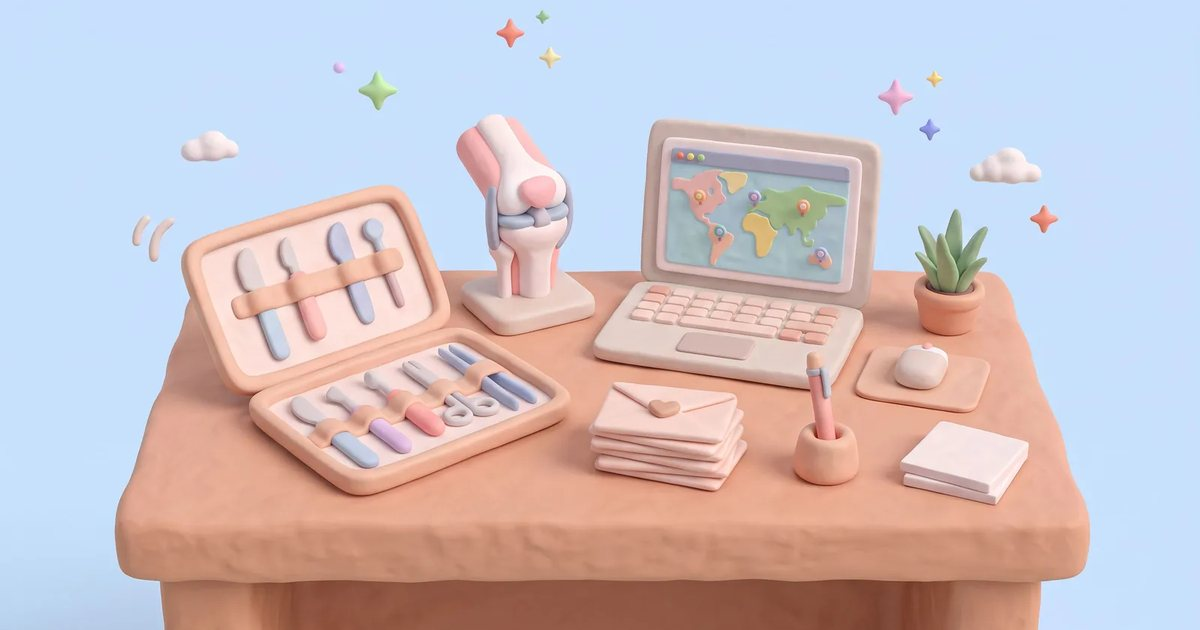
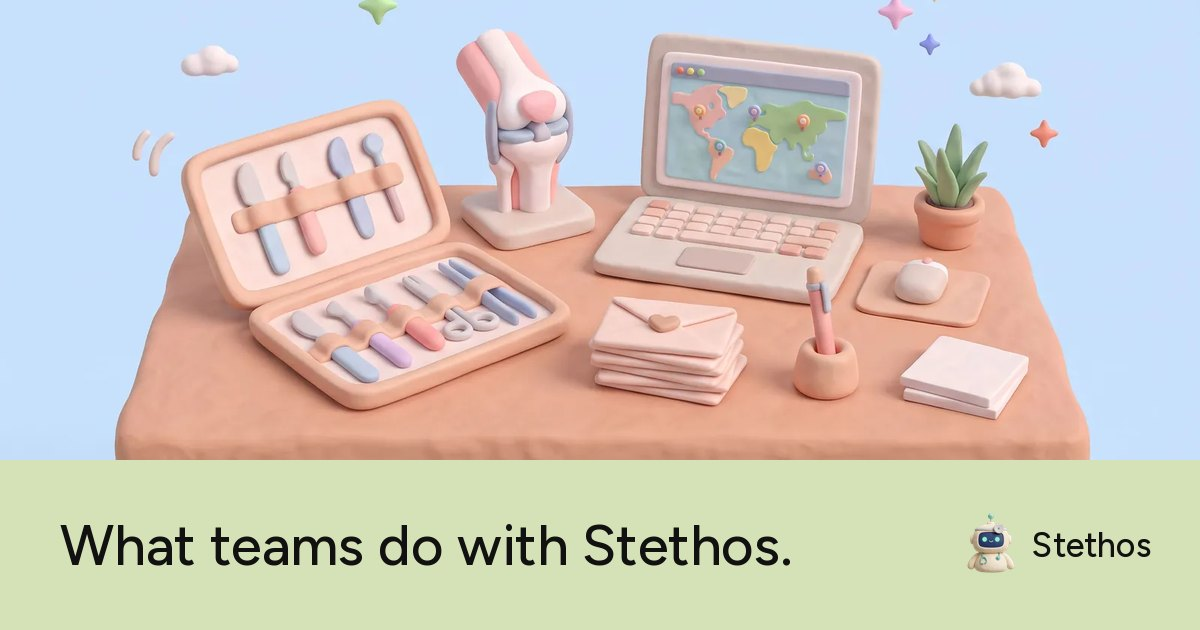
Remove source ribbon under hero; branded share cards for every page
Every page's link preview now carries the robot logo and Stethos name in the
same layout as the homepage card.

Claude-Session: https://claude.ai/code/session_01GTuT34fDN3RaY4La69227H

diff --git a/public/use-cases.html b/public/use-cases.html
@@ -14,17 +14,17 @@
 <meta property="og:title" content="Use Cases: Healthcare Sales, Marketing and Deal Workflows">
 <meta property="og:description" content="Agent workflows by segment: medtech, pharma, health IT, investors, startups, staffing, post-acute and health systems. Targeting, referrals, ABM and more.">
 <meta property="og:url" content="https://stethos-one.vercel.app/use-cases">
-<meta property="og:image" content="https://stethos-one.vercel.app/og/use-cases.jpg">
-<meta property="og:image:secure_url" content="https://stethos-one.vercel.app/og/use-cases.jpg">
+<meta property="og:image" content="https://stethos-one.vercel.app/og/use-cases.jpg?v=4">
+<meta property="og:image:secure_url" content="https://stethos-one.vercel.app/og/use-cases.jpg?v=4">
 <meta property="og:image:type" content="image/jpeg">
 <meta property="og:image:width" content="1200">
 <meta property="og:image:height" content="630">
-<meta property="og:image:alt" content="Clay illustration of a data machine under a glass dome, taking in records from hospitals and clinics and sending updates to small robots at laptops, next to the line: Healthcare data for your AI agents.">
+<meta property="og:image:alt" content="Clay illustration of a sales desk with a laptop map, above the line: What teams do with Stethos.">
 <meta name="twitter:card" content="summary_large_image">
 <meta name="twitter:title" content="Use Cases: Healthcare Sales, Marketing and Deal Workflows">
 <meta name="twitter:description" content="Agent workflows by segment: medtech, pharma, health IT, investors, startups, staffing, post-acute and health systems. Targeting, referrals, ABM and more.">
-<meta name="twitter:image" content="https://stethos-one.vercel.app/og/use-cases.jpg">
-<meta name="twitter:image:alt" content="Clay illustration of a data machine under a glass dome, taking in records from hospitals and clinics and sending updates to small robots at laptops, next to the line: Healthcare data for your AI agents.">
+<meta name="twitter:image" content="https://stethos-one.vercel.app/og/use-cases.jpg?v=4">
+<meta name="twitter:image:alt" content="Clay illustration of a sales desk with a laptop map, above the line: What teams do with Stethos.">
 <link rel="icon" href="/favicon-32.png?v=cf8c8908" sizes="32x32" type="image/png">
 <link rel="apple-touch-icon" href="/apple-touch-icon.png?v=d0d2cf04">
 <link rel="preload" href="/fonts/figtree-latin-wght-normal.woff2" as="font" type="font/woff2" crossorigin>

diff --git a/public/blog/what-the-npi-registry-can-and-cant-tell-you.html b/public/blog/what-the-npi-registry-can-and-cant-tell-you.html
@@ -14,8 +14,8 @@
 <meta property="og:title" content="What the NPI Registry Can and Can't Tell You | Stethos">
 <meta property="og:description" content="The NPPES NPI Registry is the backbone of US provider data. Here's what it reliably tells you, where it falls short, and what to pair it with.">
 <meta property="og:url" content="https://stethos-one.vercel.app/blog/what-the-npi-registry-can-and-cant-tell-you">
-<meta property="og:image" content="https://stethos-one.vercel.app/og/what-the-npi-registry-can-and-cant-tell-you.jpg">
-<meta property="og:image:secure_url" content="https://stethos-one.vercel.app/og/what-the-npi-registry-can-and-cant-tell-you.jpg">
+<meta property="og:image" content="https://stethos-one.vercel.app/og/what-the-npi-registry-can-and-cant-tell-you.jpg?v=4">
+<meta property="og:image:secure_url" content="https://stethos-one.vercel.app/og/what-the-npi-registry-can-and-cant-tell-you.jpg?v=4">
 <meta property="og:image:type" content="image/jpeg">
 <meta property="og:image:width" content="1200">
 <meta property="og:image:height" content="630">
@@ -23,7 +23,7 @@
 <meta name="twitter:card" content="summary_large_image">
 <meta name="twitter:title" content="What the NPI Registry Can and Can't Tell You | Stethos">
 <meta name="twitter:description" content="The NPPES NPI Registry is the backbone of US provider data. Here's what it reliably tells you, where it falls short, and what to pair it with.">
-<meta name="twitter:image" content="https://stethos-one.vercel.app/og/what-the-npi-registry-can-and-cant-tell-you.jpg">
+<meta name="twitter:image" content="https://stethos-one.vercel.app/og/what-the-npi-registry-can-and-cant-tell-you.jpg?v=4">
 <meta name="twitter:image:alt" content="Illustration: a clay clipboard directory of doctors' offices with check marks, beside an insurance shield and a magnifying glass.">
 <link rel="icon" href="/favicon-32.png?v=cf8c8908" sizes="32x32" type="image/png">
 <link rel="apple-touch-icon" href="/apple-touch-icon.png?v=d0d2cf04">

diff --git a/public/blog/giving-an-ai-agent-healthcare-data-checklist.html b/public/blog/giving-an-ai-agent-healthcare-data-checklist.html
@@ -14,8 +14,8 @@
 <meta property="og:title" content="Giving an AI Agent Healthcare Data: A Checklist | Stethos">
 <meta property="og:description" content="Before an AI agent acts on healthcare provider data, check freshness, provenance, identifiers, cost controls and patient privacy. A short checklist.">
 <meta property="og:url" content="https://stethos-one.vercel.app/blog/giving-an-ai-agent-healthcare-data-checklist">
-<meta property="og:image" content="https://stethos-one.vercel.app/og/giving-an-ai-agent-healthcare-data-checklist.jpg">
-<meta property="og:image:secure_url" content="https://stethos-one.vercel.app/og/giving-an-ai-agent-healthcare-data-checklist.jpg">
+<meta property="og:image" content="https://stethos-one.vercel.app/og/giving-an-ai-agent-healthcare-data-checklist.jpg?v=4">
+<meta property="og:image:secure_url" content="https://stethos-one.vercel.app/og/giving-an-ai-agent-healthcare-data-checklist.jpg?v=4">
 <meta property="og:image:type" content="image/jpeg">
 <meta property="og:image:width" content="1200">
 <meta property="og:image:height" content="630">
@@ -23,7 +23,7 @@
 <meta name="twitter:card" content="summary_large_image">
 <meta name="twitter:title" content="Giving an AI Agent Healthcare Data: A Checklist | Stethos">
 <meta name="twitter:description" content="Before an AI agent acts on healthcare provider data, check freshness, provenance, identifiers, cost controls and patient privacy. A short checklist.">
-<meta name="twitter:image" content="https://stethos-one.vercel.app/og/giving-an-ai-agent-healthcare-data-checklist.jpg">
+<meta name="twitter:image" content="https://stethos-one.vercel.app/og/giving-an-ai-agent-healthcare-data-checklist.jpg?v=4">
 <meta name="twitter:image:alt" content="Illustration: a clay smartphone showing a map of doctor pins, with a small clay robot leaning on it.">
 <link rel="icon" href="/favicon-32.png?v=cf8c8908" sizes="32x32" type="image/png">
 <link rel="apple-touch-icon" href="/apple-touch-icon.png?v=d0d2cf04">

diff --git a/public/blog/why-provider-directories-go-stale.html b/public/blog/why-provider-directories-go-stale.html
@@ -14,8 +14,8 @@
 <meta property="og:title" content="Why Provider Directories Go Stale | Stethos">
 <meta property="og:description" content="Provider directories drift out of date because clinicians move faster than the systems that track them. Here's where the errors come from and what helps.">
 <meta property="og:url" content="https://stethos-one.vercel.app/blog/why-provider-directories-go-stale">
-<meta property="og:image" content="https://stethos-one.vercel.app/og/why-provider-directories-go-stale.jpg">
-<meta property="og:image:secure_url" content="https://stethos-one.vercel.app/og/why-provider-directories-go-stale.jpg">
+<meta property="og:image" content="https://stethos-one.vercel.app/og/why-provider-directories-go-stale.jpg?v=4">
+<meta property="og:image:secure_url" content="https://stethos-one.vercel.app/og/why-provider-directories-go-stale.jpg?v=4">
 <meta property="og:image:type" content="image/jpeg">
 <meta property="og:image:width" content="1200">
 <meta property="og:image:height" content="630">
@@ -23,7 +23,7 @@
 <meta name="twitter:card" content="summary_large_image">
 <meta name="twitter:title" content="Why Provider Directories Go Stale | Stethos">
 <meta name="twitter:description" content="Provider directories drift out of date because clinicians move faster than the systems that track them. Here's where the errors come from and what helps.">
-<meta name="twitter:image" content="https://stethos-one.vercel.app/og/why-provider-directories-go-stale.jpg">
+<meta name="twitter:image" content="https://stethos-one.vercel.app/og/why-provider-directories-go-stale.jpg?v=4">
 <meta name="twitter:image:alt" content="Illustration: a dusty clay filing cabinet, faded binders, a curling spreadsheet, returned envelopes and a map whose pins have fallen over.">
 <link rel="icon" href="/favicon-32.png?v=cf8c8908" sizes="32x32" type="image/png">
 <link rel="apple-touch-icon" href="/apple-touch-icon.png?v=d0d2cf04">

diff --git a/public/compare/definitive-healthcare.html b/public/compare/definitive-healthcare.html
@@ -14,8 +14,8 @@
 <meta property="og:title" content="Stethos vs Definitive Healthcare | Provider Data Compared">
 <meta property="og:description" content="How Stethos compares with Definitive Healthcare for healthcare provider data: API access, pricing model, data freshness and who each is built for.">
 <meta property="og:url" content="https://stethos-one.vercel.app/compare/definitive-healthcare">
-<meta property="og:image" content="https://stethos-one.vercel.app/og/compare.jpg">
-<meta property="og:image:secure_url" content="https://stethos-one.vercel.app/og/compare.jpg">
+<meta property="og:image" content="https://stethos-one.vercel.app/og/compare.jpg?v=4">
+<meta property="og:image:secure_url" content="https://stethos-one.vercel.app/og/compare.jpg?v=4">
 <meta property="og:image:type" content="image/jpeg">
 <meta property="og:image:width" content="1200">
 <meta property="og:image:height" content="630">
@@ -23,7 +23,7 @@
 <meta name="twitter:card" content="summary_large_image">
 <meta name="twitter:title" content="Stethos vs Definitive Healthcare | Provider Data Compared">
 <meta name="twitter:description" content="How Stethos compares with Definitive Healthcare for healthcare provider data: API access, pricing model, data freshness and who each is built for.">
-<meta name="twitter:image" content="https://stethos-one.vercel.app/og/compare.jpg">
+<meta name="twitter:image" content="https://stethos-one.vercel.app/og/compare.jpg?v=4">
 <meta name="twitter:image:alt" content="Clay illustration of a data machine under a glass dome, taking in records from hospitals and clinics and sending updates to small robots at laptops, next to the line: Healthcare data for your AI agents.">
 <link rel="icon" href="/favicon-32.png?v=cf8c8908" sizes="32x32" type="image/png">
 <link rel="apple-touch-icon" href="/apple-touch-icon.png?v=d0d2cf04">

diff --git a/public/medicare-utilization-data-api.html b/public/medicare-utilization-data-api.html
@@ -14,8 +14,8 @@
 <meta property="og:title" content="Medicare Provider Utilization Data API | Stethos">
 <meta property="og:description" content="Procedure volumes, Medicare patients and Part D prescribing for every US clinician, from CMS public files, resolved to one NPI record. MCP and REST.">
 <meta property="og:url" content="https://stethos-one.vercel.app/medicare-utilization-data-api">
-<meta property="og:image" content="https://stethos-one.vercel.app/og/medicare-utilization-data-api.jpg">
-<meta property="og:image:secure_url" content="https://stethos-one.vercel.app/og/medicare-utilization-data-api.jpg">
+<meta property="og:image" content="https://stethos-one.vercel.app/og/medicare-utilization-data-api.jpg?v=4">
+<meta property="og:image:secure_url" content="https://stethos-one.vercel.app/og/medicare-utilization-data-api.jpg?v=4">
 <meta property="og:image:type" content="image/jpeg">
 <meta property="og:image:width" content="1200">
 <meta property="og:image:height" content="630">
@@ -23,7 +23,7 @@
 <meta name="twitter:card" content="summary_large_image">
 <meta name="twitter:title" content="Medicare Provider Utilization Data API | Stethos">
 <meta name="twitter:description" content="Procedure volumes, Medicare patients and Part D prescribing for every US clinician, from CMS public files, resolved to one NPI record. MCP and REST.">
-<meta name="twitter:image" content="https://stethos-one.vercel.app/og/medicare-utilization-data-api.jpg">
+<meta name="twitter:image" content="https://stethos-one.vercel.app/og/medicare-utilization-data-api.jpg?v=4">
 <meta name="twitter:image:alt" content="Illustration for Medicare utilization data API">
 <link rel="icon" href="/favicon-32.png?v=cf8c8908" sizes="32x32" type="image/png">
 <link rel="apple-touch-icon" href="/apple-touch-icon.png?v=d0d2cf04">

diff --git a/public/pricing.html b/public/pricing.html
@@ -14,8 +14,8 @@
 <meta property="og:title" content="Pricing: Pay Per Tool Call | Stethos MCP Server">
 <meta property="og:description" content="Self-serve pricing per MCP tool call. Start with 1,000 free credits, no card. Build is $149 a month for 20,000 credits. Enterprise adds flat files.">
 <meta property="og:url" content="https://stethos-one.vercel.app/pricing">
-<meta property="og:image" content="https://stethos-one.vercel.app/og/pricing.jpg">
-<meta property="og:image:secure_url" content="https://stethos-one.vercel.app/og/pricing.jpg">
+<meta property="og:image" content="https://stethos-one.vercel.app/og/pricing.jpg?v=4">
+<meta property="og:image:secure_url" content="https://stethos-one.vercel.app/og/pricing.jpg?v=4">
 <meta property="og:image:type" content="image/jpeg">
 <meta property="og:image:width" content="1200">
 <meta property="og:image:height" content="630">
@@ -23,7 +23,7 @@
 <meta name="twitter:card" content="summary_large_image">
 <meta name="twitter:title" content="Pricing: Pay Per Tool Call | Stethos MCP Server">
 <meta name="twitter:description" content="Self-serve pricing per MCP tool call. Start with 1,000 free credits, no card. Build is $149 a month for 20,000 credits. Enterprise adds flat files.">
-<meta name="twitter:image" content="https://stethos-one.vercel.app/og/pricing.jpg">
+<meta name="twitter:image" content="https://stethos-one.vercel.app/og/pricing.jpg?v=4">
 <meta name="twitter:image:alt" content="Clay illustration of a data machine under a glass dome, taking in records from hospitals and clinics and sending updates to small robots at laptops, next to the line: Healthcare data for your AI agents.">
 <link rel="icon" href="/favicon-32.png?v=cf8c8908" sizes="32x32" type="image/png">
 <link rel="apple-touch-icon" href="/apple-touch-icon.png?v=d0d2cf04">

diff --git a/public/compare/iqvia-onekey.html b/public/compare/iqvia-onekey.html
@@ -14,8 +14,8 @@
 <meta property="og:title" content="Stethos vs IQVIA OneKey | Provider Data Compared">
 <meta property="og:description" content="How Stethos compares with IQVIA OneKey for healthcare provider data: API access, pricing model, data freshness and who each is built for.">
 <meta property="og:url" content="https://stethos-one.vercel.app/compare/iqvia-onekey">
-<meta property="og:image" content="https://stethos-one.vercel.app/og/compare.jpg">
-<meta property="og:image:secure_url" content="https://stethos-one.vercel.app/og/compare.jpg">
+<meta property="og:image" content="https://stethos-one.vercel.app/og/compare.jpg?v=4">
+<meta property="og:image:secure_url" content="https://stethos-one.vercel.app/og/compare.jpg?v=4">
 <meta property="og:image:type" content="image/jpeg">
 <meta property="og:image:width" content="1200">
 <meta property="og:image:height" content="630">
@@ -23,7 +23,7 @@
 <meta name="twitter:card" content="summary_large_image">
 <meta name="twitter:title" content="Stethos vs IQVIA OneKey | Provider Data Compared">
 <meta name="twitter:description" content="How Stethos compares with IQVIA OneKey for healthcare provider data: API access, pricing model, data freshness and who each is built for.">
-<meta name="twitter:image" content="https://stethos-one.vercel.app/og/compare.jpg">
+<meta name="twitter:image" content="https://stethos-one.vercel.app/og/compare.jpg?v=4">
 <meta name="twitter:image:alt" content="Clay illustration of a data machine under a glass dome, taking in records from hospitals and clinics and sending updates to small robots at laptops, next to the line: Healthcare data for your AI agents.">
 <link rel="icon" href="/favicon-32.png?v=cf8c8908" sizes="32x32" type="image/png">
 <link rel="apple-touch-icon" href="/apple-touch-icon.png?v=d0d2cf04">

diff --git a/public/home-health-hospice-data-api.html b/public/home-health-hospice-data-api.html
@@ -14,8 +14,8 @@
 <meta property="og:title" content="Home Health, Hospice and SNF Data API | Stethos">
 <meta property="og:description" content="Volume, payments, patient mix, star ratings and ownership for every Medicare home health agency, hospice and nursing facility, via MCP or REST.">
 <meta property="og:url" content="https://stethos-one.vercel.app/home-health-hospice-data-api">
-<meta property="og:image" content="https://stethos-one.vercel.app/og/home-health-hospice-data-api.jpg">
-<meta property="og:image:secure_url" content="https://stethos-one.vercel.app/og/home-health-hospice-data-api.jpg">
+<meta property="og:image" content="https://stethos-one.vercel.app/og/home-health-hospice-data-api.jpg?v=4">
+<meta property="og:image:secure_url" content="https://stethos-one.vercel.app/og/home-health-hospice-data-api.jpg?v=4">
 <meta property="og:image:type" content="image/jpeg">
 <meta property="og:image:width" content="1200">
 <meta property="og:image:height" content="630">
@@ -23,7 +23,7 @@
 <meta name="twitter:card" content="summary_large_image">
 <meta name="twitter:title" content="Home Health, Hospice and SNF Data API | Stethos">
 <meta name="twitter:description" content="Volume, payments, patient mix, star ratings and ownership for every Medicare home health agency, hospice and nursing facility, via MCP or REST.">
-<meta name="twitter:image" content="https://stethos-one.vercel.app/og/home-health-hospice-data-api.jpg">
+<meta name="twitter:image" content="https://stethos-one.vercel.app/og/home-health-hospice-data-api.jpg?v=4">
 <meta name="twitter:image:alt" content="Illustration for Home health and hospice data API">
 <link rel="icon" href="/favicon-32.png?v=cf8c8908" sizes="32x32" type="image/png">
 <link rel="apple-touch-icon" href="/apple-touch-icon.png?v=d0d2cf04">

diff --git a/public/use-cases/healthcare-marketing.html b/public/use-cases/healthcare-marketing.html
@@ -14,8 +14,8 @@
 <meta property="og:title" content="Clinician and Account Data for Healthcare Marketing | Stethos">
 <meta property="og:description" content="Build clinician audiences and account lists for campaigns, events and ABM, and keep them clean as people change jobs. Current, sourced healthcare data.">
 <meta property="og:url" content="https://stethos-one.vercel.app/use-cases/healthcare-marketing">
-<meta property="og:image" content="https://stethos-one.vercel.app/og/healthcare-marketing.jpg">
-<meta property="og:image:secure_url" content="https://stethos-one.vercel.app/og/healthcare-marketing.jpg">
+<meta property="og:image" content="https://stethos-one.vercel.app/og/healthcare-marketing.jpg?v=4">
+<meta property="og:image:secure_url" content="https://stethos-one.vercel.app/og/healthcare-marketing.jpg?v=4">
 <meta property="og:image:type" content="image/jpeg">
 <meta property="og:image:width" content="1200">
 <meta property="og:image:height" content="630">
@@ -23,7 +23,7 @@
 <meta name="twitter:card" content="summary_large_image">
 <meta name="twitter:title" content="Clinician and Account Data for Healthcare Marketing | Stethos">
 <meta name="twitter:description" content="Build clinician audiences and account lists for campaigns, events and ABM, and keep them clean as people change jobs. Current, sourced healthcare data.">
-<meta name="twitter:image" content="https://stethos-one.vercel.app/og/healthcare-marketing.jpg">
+<meta name="twitter:image" content="https://stethos-one.vercel.app/og/healthcare-marketing.jpg?v=4">
 <meta name="twitter:image:alt" content="Illustration for Healthcare marketing">
 <link rel="icon" href="/favicon-32.png?v=cf8c8908" sizes="32x32" type="image/png">
 <link rel="apple-touch-icon" href="/apple-touch-icon.png?v=d0d2cf04">

diff --git a/public/use-cases/provider-directories.html b/public/use-cases/provider-directories.html
@@ -14,8 +14,8 @@
 <meta property="og:title" content="Provider Directory Data API for Payers | Stethos">
 <meta property="og:description" content="Check provider directory listings against current sources. Flag stale locations, lapsed licenses and network mismatches with a real-time provider data API.">
 <meta property="og:url" content="https://stethos-one.vercel.app/use-cases/provider-directories">
-<meta property="og:image" content="https://stethos-one.vercel.app/og/provider-directories.jpg">
-<meta property="og:image:secure_url" content="https://stethos-one.vercel.app/og/provider-directories.jpg">
+<meta property="og:image" content="https://stethos-one.vercel.app/og/provider-directories.jpg?v=4">
+<meta property="og:image:secure_url" content="https://stethos-one.vercel.app/og/provider-directories.jpg?v=4">
 <meta property="og:image:type" content="image/jpeg">
 <meta property="og:image:width" content="1200">
 <meta property="og:image:height" content="630">
@@ -23,7 +23,7 @@
 <meta name="twitter:card" content="summary_large_image">
 <meta name="twitter:title" content="Provider Directory Data API for Payers | Stethos">
 <meta name="twitter:description" content="Check provider directory listings against current sources. Flag stale locations, lapsed licenses and network mismatches with a real-time provider data API.">
-<meta name="twitter:image" content="https://stethos-one.vercel.app/og/provider-directories.jpg">
+<meta name="twitter:image" content="https://stethos-one.vercel.app/og/provider-directories.jpg?v=4">
 <meta name="twitter:image:alt" content="Illustration for Provider directories and networks">
 <link rel="icon" href="/favicon-32.png?v=cf8c8908" sizes="32x32" type="image/png">
 <link rel="apple-touch-icon" href="/apple-touch-icon.png?v=d0d2cf04">

diff --git a/public/physician-referral-data.html b/public/physician-referral-data.html
@@ -14,8 +14,8 @@
 <meta property="og:title" content="Physician Referral Data API for AI Agents | Stethos">
 <meta property="og:description" content="Map who works with whom: group rosters, hospital affiliations, ACO membership and shared practice sites for every US clinician. Referral flows planned.">
 <meta property="og:url" content="https://stethos-one.vercel.app/physician-referral-data">
-<meta property="og:image" content="https://stethos-one.vercel.app/og/physician-referral-data.jpg">
-<meta property="og:image:secure_url" content="https://stethos-one.vercel.app/og/physician-referral-data.jpg">
+<meta property="og:image" content="https://stethos-one.vercel.app/og/physician-referral-data.jpg?v=4">
+<meta property="og:image:secure_url" content="https://stethos-one.vercel.app/og/physician-referral-data.jpg?v=4">
 <meta property="og:image:type" content="image/jpeg">
 <meta property="og:image:width" content="1200">
 <meta property="og:image:height" content="630">
@@ -23,7 +23,7 @@
 <meta name="twitter:card" content="summary_large_image">
 <meta name="twitter:title" content="Physician Referral Data API for AI Agents | Stethos">
 <meta name="twitter:description" content="Map who works with whom: group rosters, hospital affiliations, ACO membership and shared practice sites for every US clinician. Referral flows planned.">
-<meta name="twitter:image" content="https://stethos-one.vercel.app/og/physician-referral-data.jpg">
+<meta name="twitter:image" content="https://stethos-one.vercel.app/og/physician-referral-data.jpg?v=4">
 <meta name="twitter:image:alt" content="Illustration for Physician referral data">
 <link rel="icon" href="/favicon-32.png?v=cf8c8908" sizes="32x32" type="image/png">
 <link rel="apple-touch-icon" href="/apple-touch-icon.png?v=d0d2cf04">
